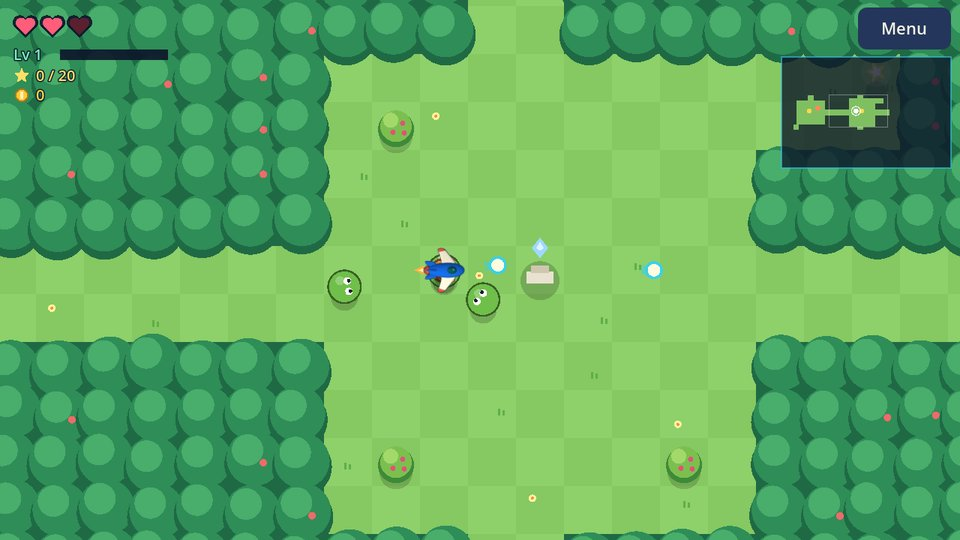
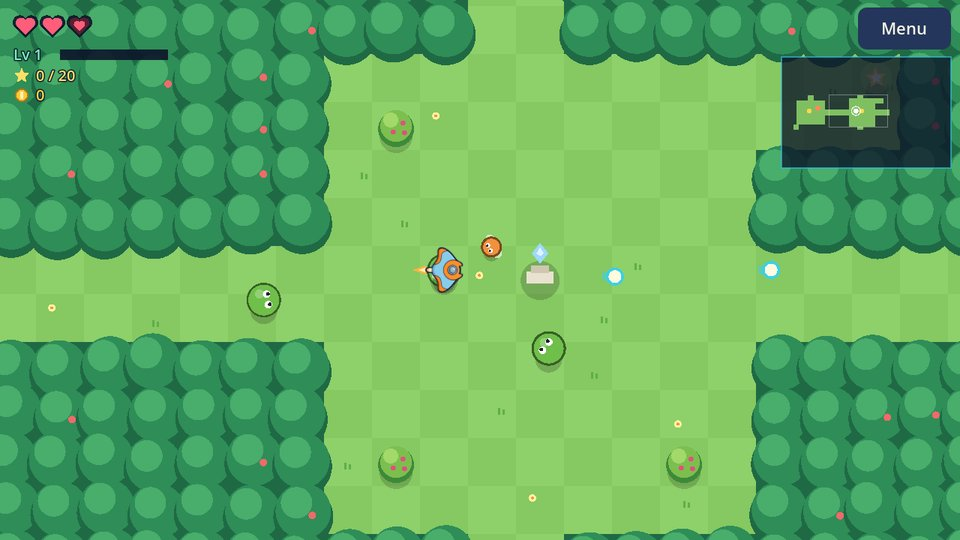
Tiny Tailwind card: the Manta for v0.3.2
Claude-Session: https://claude.ai/code/session_0117TTYADgpHoqVfQ64qHdzr

diff --git a/index.html b/index.html
@@ -108,10 +108,10 @@ footer{margin-top:40px;color:var(--soft);font-size:14px;text-align:center}
 </article>
 
 <article class="card" data-repo="tiny-tailwind">
-<a class="shot" href="tiny-tailwind/"><img src="images/tiny-tailwind.jpg" alt="Tiny Tailwind: the new blue and cream glider shooting at critters in the Sunmeadow" width="960" height="540" loading="lazy"></a>
+<a class="shot" href="tiny-tailwind/"><img src="images/tiny-tailwind.jpg" alt="Tiny Tailwind: the Manta ship shooting at critters in the Sunmeadow" width="960" height="540" loading="lazy"></a>
 <div class="body">
 <div class="top"><h2><a href="tiny-tailwind/">Tiny Tailwind</a></h2><span class="tag">A twin-stick adventure</span></div>
-<p class="desc">Fly a little glider through the Sunmeadow. Shoot past brambly critters, gather coins for Wren's Wagon, find 20 keepsakes and calm the warden of the keep. Defeat never costs a thing.</p>
+<p class="desc">Fly a little manta-winged ship through the Sunmeadow. Shoot past brambly critters, gather coins for Wren's Wagon, find 20 keepsakes and calm the warden of the keep. Defeat never costs a thing.</p>
 <p class="meta">Browser and Android<span class="ver"></span></p>
 <div class="actions"><a class="btn" href="tiny-tailwind/">Open game page</a><a class="src" href="https://github.com/bclark10121-cloud/tiny-tailwind">Source on GitHub</a></div>
 </div>
